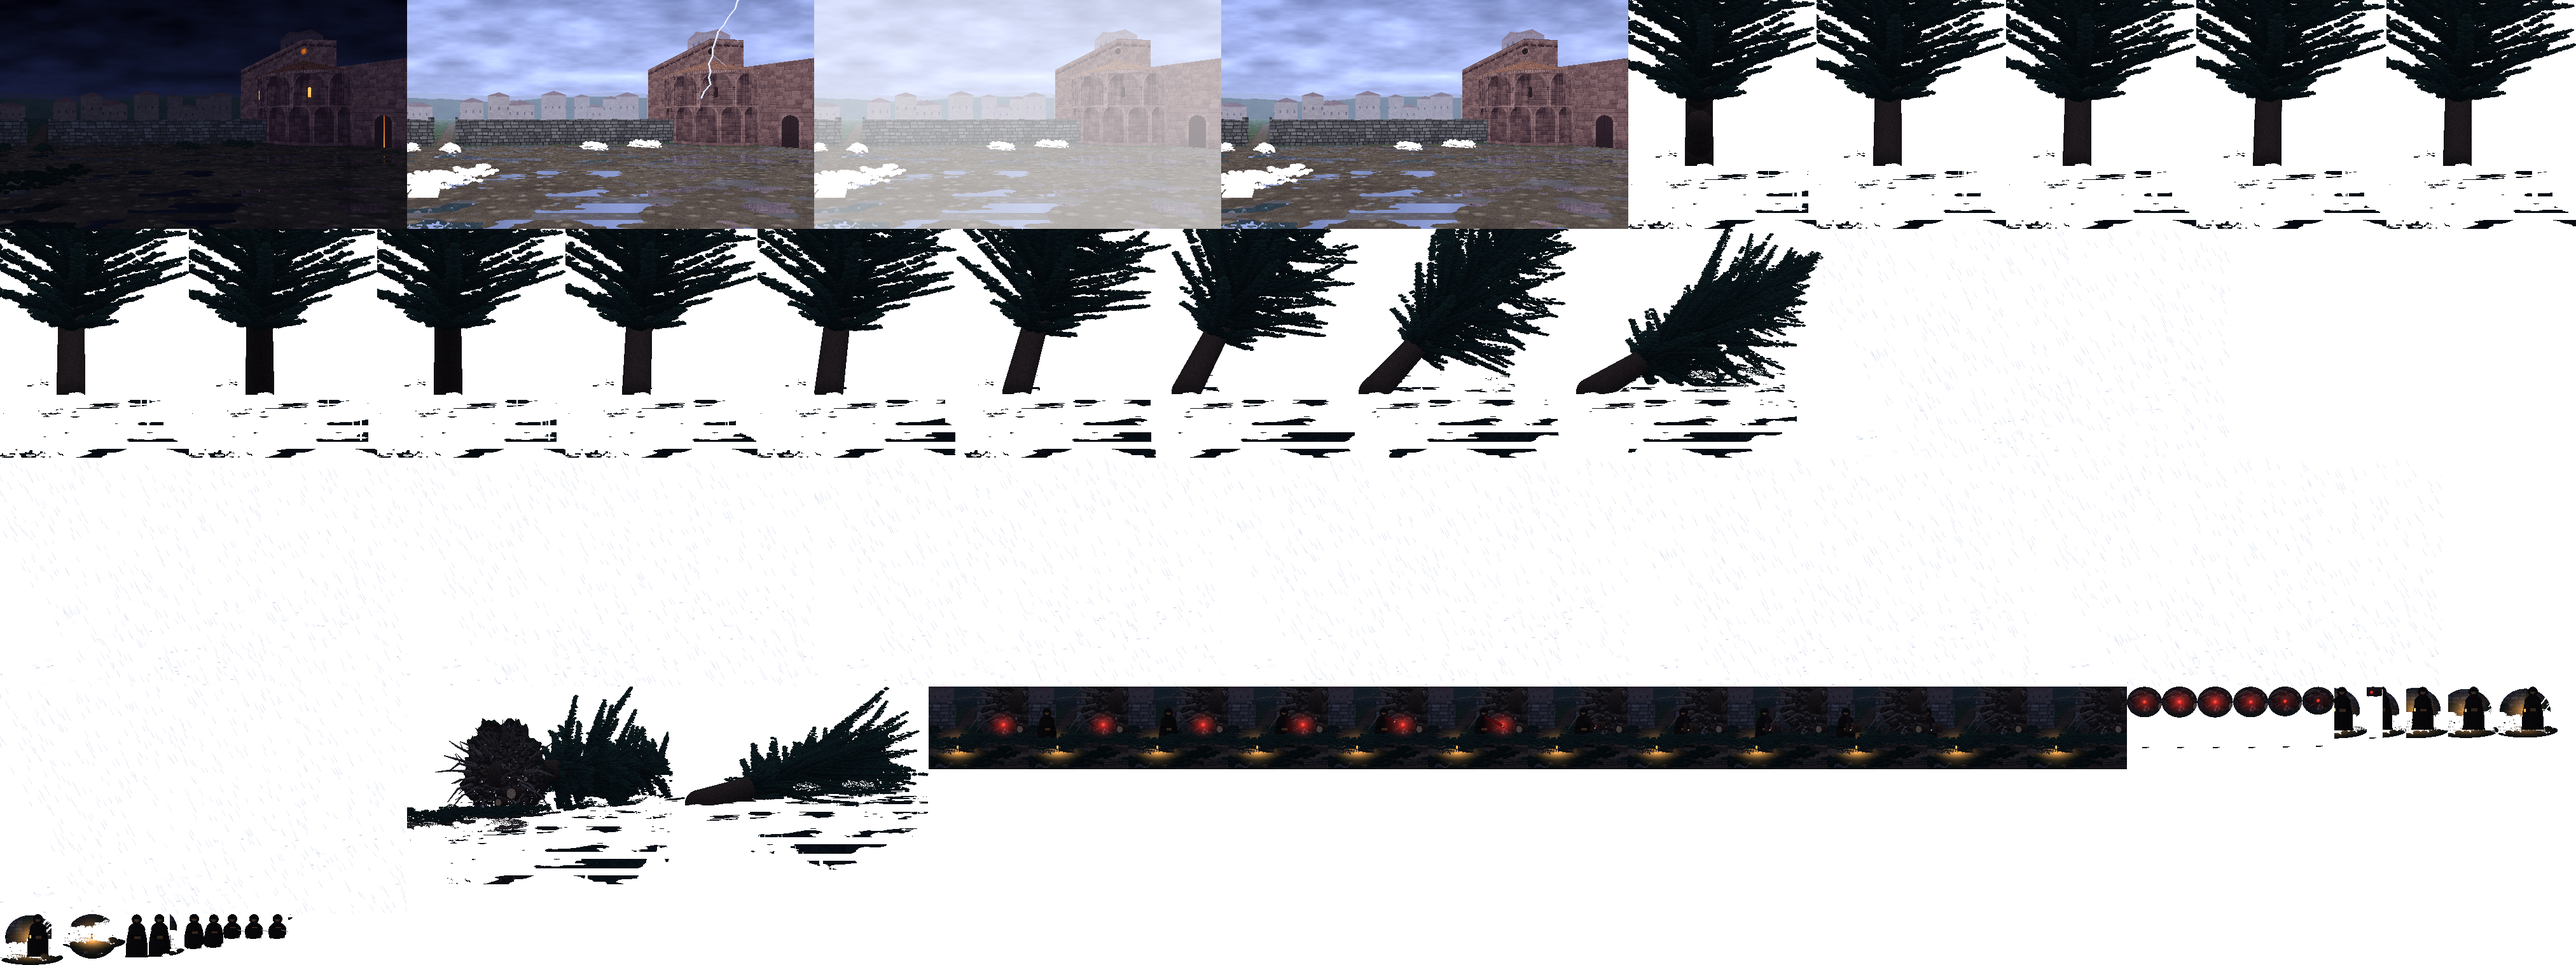
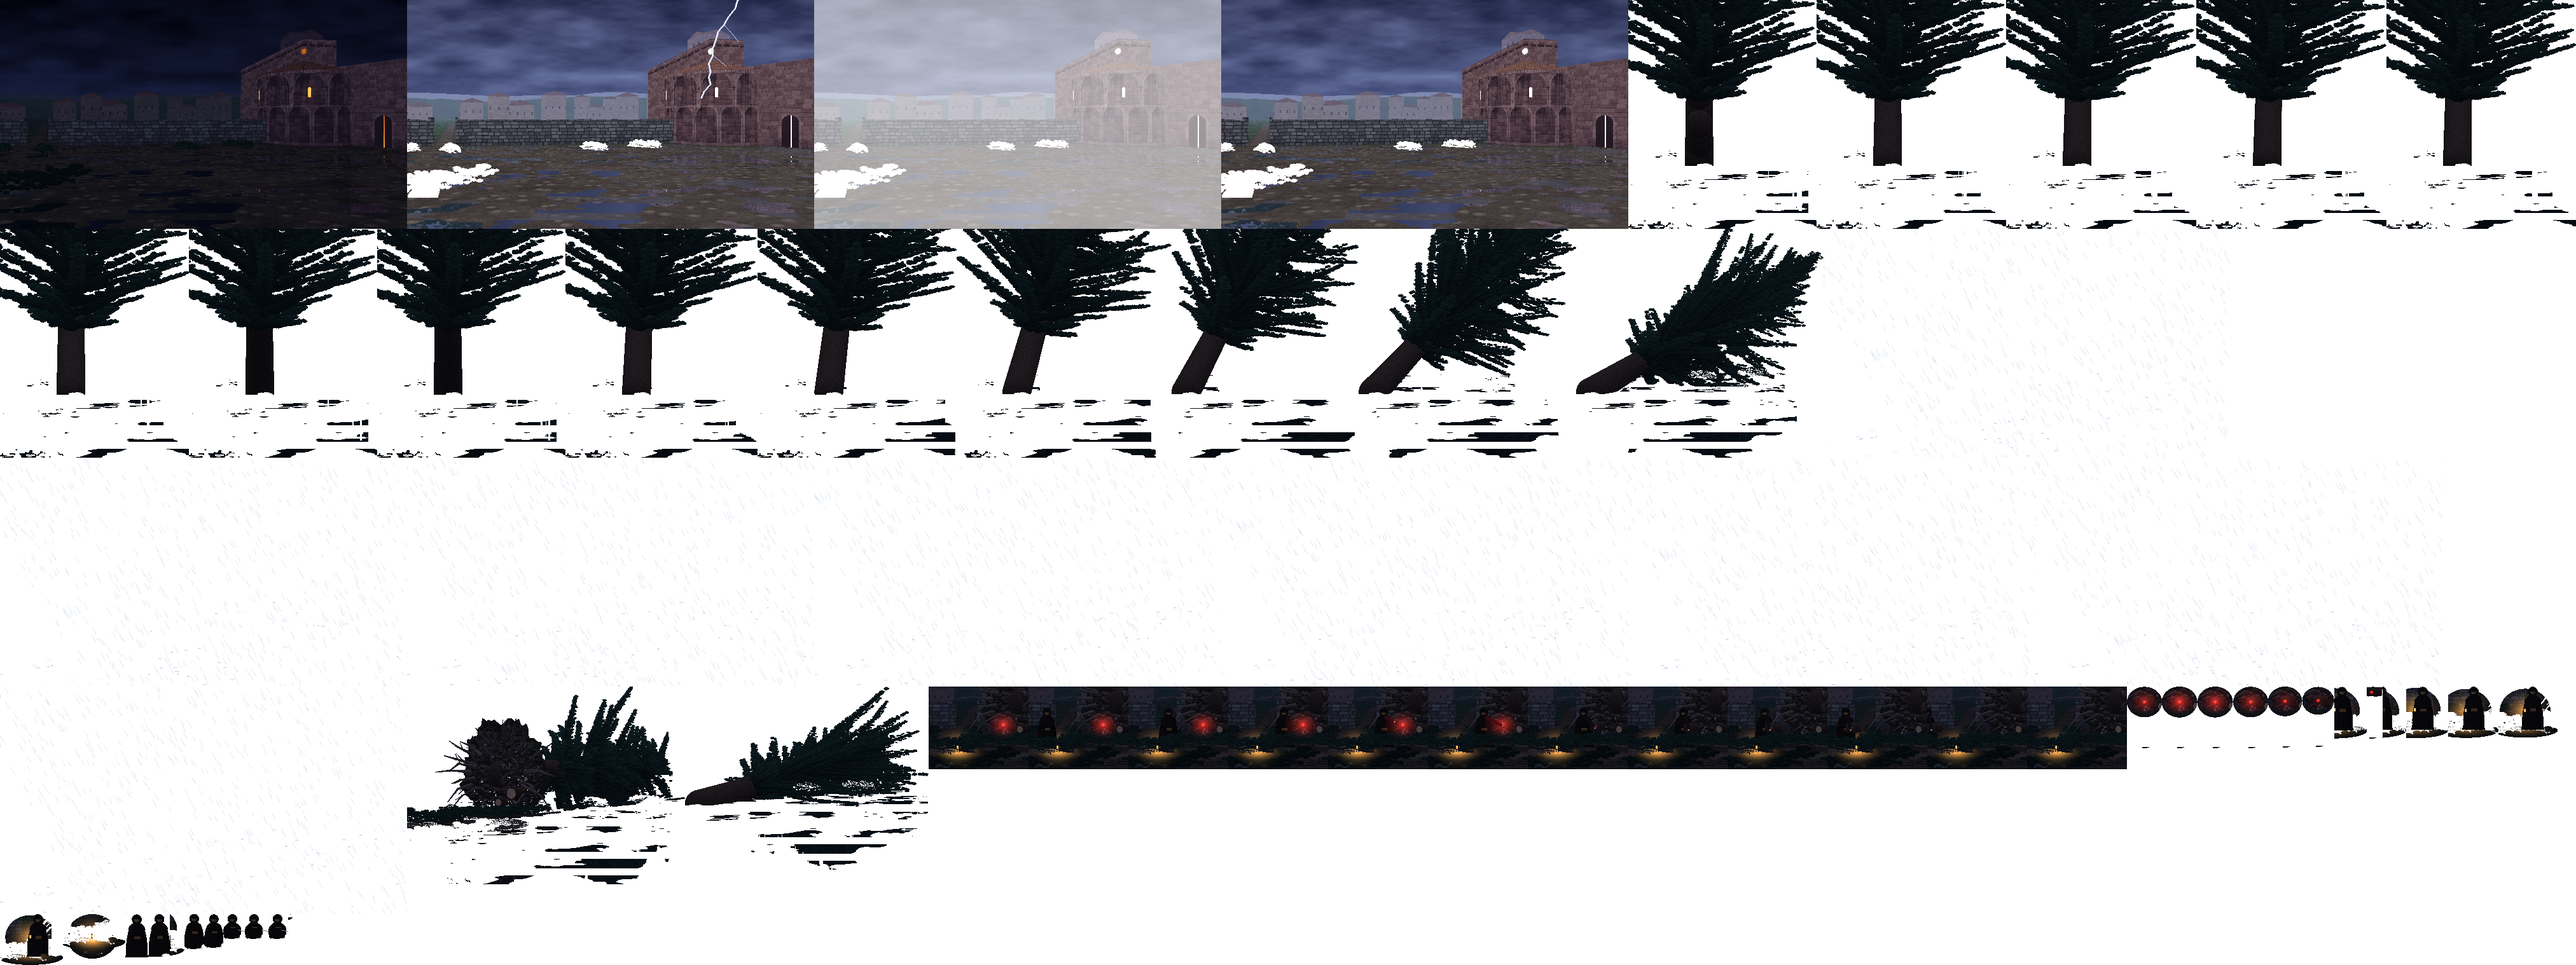
Conjura de l'Avet: la cera del forat es veu com un tros de segell i es toca més fàcil, i el llamp del pròleg és un flaix sobre la nit (266, 269)
- La cera vermella és una gota de cera aixafada de 7×4 píxels amb lluentor i ombra, i la zona de clic fa
  24×17 (abans 14×9).
- El flaix del llamp ja no és l'escena de dia: la nit amb una llum blanca i blava al damunt (a un 70 %), el
  cel de tempesta encès per dins, la pluja per sobre i les finestres enceses.

Changed region(s): [[0.1556, 0.0, 0.6533, 0.2477], [0.4667, 0.1548, 0.6533, 0.2477], [0.3422, 0.1858, 0.4044, 0.2477]]

diff --git a/games/conjura-avet/adapters/benne/tools/hd640/rooms/avet_comu.py b/games/conjura-avet/adapters/benne/tools/hd640/rooms/avet_comu.py
@@ -357,10 +357,11 @@ def cel(v, e):
         nub = np.array((238, 240, 240)) - (1 - smooth(0.6, 0.8, fbm(X / 30, (Y + 3) / 8, 3)))[..., None] * 30
         rgb = rgb * (1 - k[..., None]) + nub * k[..., None]
     elif e.llum == 'llamp':
-        c0, c1 = np.array((150, 160, 196)), np.array((206, 212, 232))
+        # els núvols de tempesta encesos per dins: blau de pissarra, no el cel de dia
+        c0, c1 = np.array((70, 76, 112)), np.array((132, 140, 176))
         rgb = c0 + (c1 - c0) * t[..., None]
         n = fbm(X / 70, Y / 20, 7, 4)
-        rgb = rgb - (n[..., None] - 0.5) * 90
+        rgb = rgb - (n[..., None] - 0.5) * 110
     elif 'lluna' in e.extres:   # nit clara de primavera
         c0, c1 = np.array((8, 12, 30)), np.array((40, 52, 86))
         rgb = c0 + (c1 - c0) * t[..., None] ** 1.4
@@ -1441,27 +1442,42 @@ def _barra(v, e, p0, p1, g, ramp, lvl, sid):
         v.own[sub][m] = v.idx(sid)
 
 
+# El tros de segell: una gota de cera aixafada de 7×4 píxels, amb la vora de baix fosca (l'ombra al fang) i una
+# lluentor a dalt, perquè es llegeixi com una cosa i no com un punt de soroll. Els dígits són l'índex de la rampa.
+_CERA_DIBUIX = ("  455  ",
+                " 34543 ",
+                "2344432",
+                " 01110 ")
+# On era: el fang remenat i la marca dels dits, de la mateixa mida.
+_CERA_AGAFADA = (" 2 3 2 ",
+                 "1032301",
+                 " 01210 ")
+
+
+def _taca(v, cam, dibuix, ramp, z, sid):
+    """Pinta un dibuix petit (`dibuix`, files de dígits) centrat al punt de la cera."""
+    u, vv, zc = cam.projecta(tuple(CERA_P))
+    h, w = len(dibuix), len(dibuix[0])
+    for fy, fila in enumerate(dibuix):
+        for fx, c in enumerate(fila):
+            if c == ' ':
+                continue
+            X, Y = int(u) + fx - w // 2, int(vv) + fy - (h - 2)
+            if 0 <= X < v.w and 0 <= Y < v.h:
+                v.col[Y, X] = ramp[int(c)]
+                if z:
+                    v.z[Y, X] = zc - 2
+                v.own[Y, X] = v.idx(sid)
+
+
 def cera(v, e, sid='cera'):
-    """El tros de cera vermella al fang del fons del forat: un punt que l'ull ha de trobar."""
-    cam = v.cam
-    u, vv, z = cam.projecta(tuple(CERA_P))
-    for (dx, dy, c) in ((0, 0, 3), (1, 0, 4), (-1, 0, 2), (0, -1, 4), (1, -1, 5), (0, 1, 1), (2, 0, 3), (-1, -1, 3)):
-        X, Y = int(u) + dx, int(vv) + dy
-        if 0 <= X < v.w and 0 <= Y < v.h:
-            v.col[Y, X] = CERA[c]
-            v.z[Y, X] = z - 2
-            v.own[Y, X] = v.idx(sid)
+    """El tros de cera vermella al fang del fons del forat: petit, però que l'ull el trobi."""
+    _taca(v, v.cam, _CERA_DIBUIX, CERA, True, sid)
 
 
 def cera_agafada(v, e, sid='cera_agafada'):
     """On era la cera: el fang remenat (la marca dels dits)."""
-    cam = v.cam
-    u, vv, z = cam.projecta(tuple(CERA_P))
-    for (dx, dy, c) in ((0, 0, 0), (1, 0, 1), (-1, 0, 0), (2, 0, 3), (-2, 0, 2), (0, -1, 3), (1, -1, 4)):
-        X, Y = int(u) + dx, int(vv) + dy
-        if 0 <= X < v.w and 0 <= Y < v.h:
-            v.col[Y, X] = FANG[c]
-            v.own[Y, X] = v.idx(sid)
+    _taca(v, v.cam, _CERA_AGAFADA, FANG, False, sid)
 
 
 # ─── L'abeurador i el primer pla ────────────────────────────────────────────

diff --git a/games/conjura-avet/adapters/benne/tools/hd640/rooms/avet_pla_comu.py b/games/conjura-avet/adapters/benne/tools/hd640/rooms/avet_pla_comu.py
@@ -83,15 +83,24 @@ def _llamp_ratlla(img, seed=4, x0=520, x1=470):
 
 @functools.lru_cache(maxsize=None)
 def _flaix(e_nit, e_llamp, protegeix=frozenset(ARBRE)):
-    """El que canvia quan fa llamp (el cel, l'absis, el carrer), sense tocar l'avet (que queda en silueta)."""
+    """El que canvia quan fa llamp (el cel, l'absis, el carrer), sense tocar l'avet (que queda en silueta).
+
+    No és l'escena encesa sencera (semblaria que s'ha fet de dia): és la nit amb una llum blanca i blava al damunt, a
+    `FLAIX` de l'escena encesa, i les finestres continuen enceses."""
     base, v = render(e_nit)
     ll, _ = render(e_llamp)
-    a, b = np.asarray(ll).copy(), np.asarray(base)
-    prot = v.mascara(protegeix)
+    b = np.asarray(base)
+    a = b.astype(np.float64)
+    a[..., :3] += (np.asarray(ll)[..., :3] - a[..., :3]) * FLAIX
+    a = np.clip(np.round(a), 0, 255).astype(np.uint8)
     full = np.zeros((H, W), bool)
-    full[:v.h] = prot
+    full[:v.h] = v.mascara(protegeix) | v.emissiu
     a[full] = b[full]
     return diff(Image.fromarray(a, 'RGBA'), base)
+
+
+# Quant s'acosta el flaix a l'escena encesa pel llamp (1: tota).
+FLAIX = 0.7
 
 
 def llamps(e_nit, e_llamp, n=44, seed=4):

diff --git a/games/conjura-avet/adapters/benne/tools/hd640/rooms/mur_avet.py b/games/conjura-avet/adapters/benne/tools/hd640/rooms/mur_avet.py
@@ -200,7 +200,8 @@ GEOMETRIA = {
         'arrels': {'rect': _rect(_ARRELS)[:3] + (190,), 'walk': (124, 222)},
         # (el forat arriba a la vora esquerra, però allà la vora és el carrer: comença on s'acaba el carrer)
         'forat': {'rect': (max(23, _rect(_FORAT)[0]),) + _rect(_FORAT)[1:], 'walk': (92, 223)},
-        'cera': {'rect': (round(_CERA_UV[0]) - 7, round(_CERA_UV[1]) - 5, round(_CERA_UV[0]) + 7, round(_CERA_UV[1]) + 4),
+        # (més gran que la cera: s'ha de poder tocar amb el dit)
+        'cera': {'rect': (round(_CERA_UV[0]) - 12, round(_CERA_UV[1]) - 9, round(_CERA_UV[0]) + 12, round(_CERA_UV[1]) + 8),
                  'walk': (100, 223)},
         'faristol': {'rect': _rect([_FAR + (-26, 0, 0), _FAR + (26, 80, 0)]), 'walk': _p(100, 485)},
         'ordre': {'rect': _rect([_FAR + (-18, 52, 0), _FAR + (18, 76, 0)]), 'walk': _p(100, 485)},
